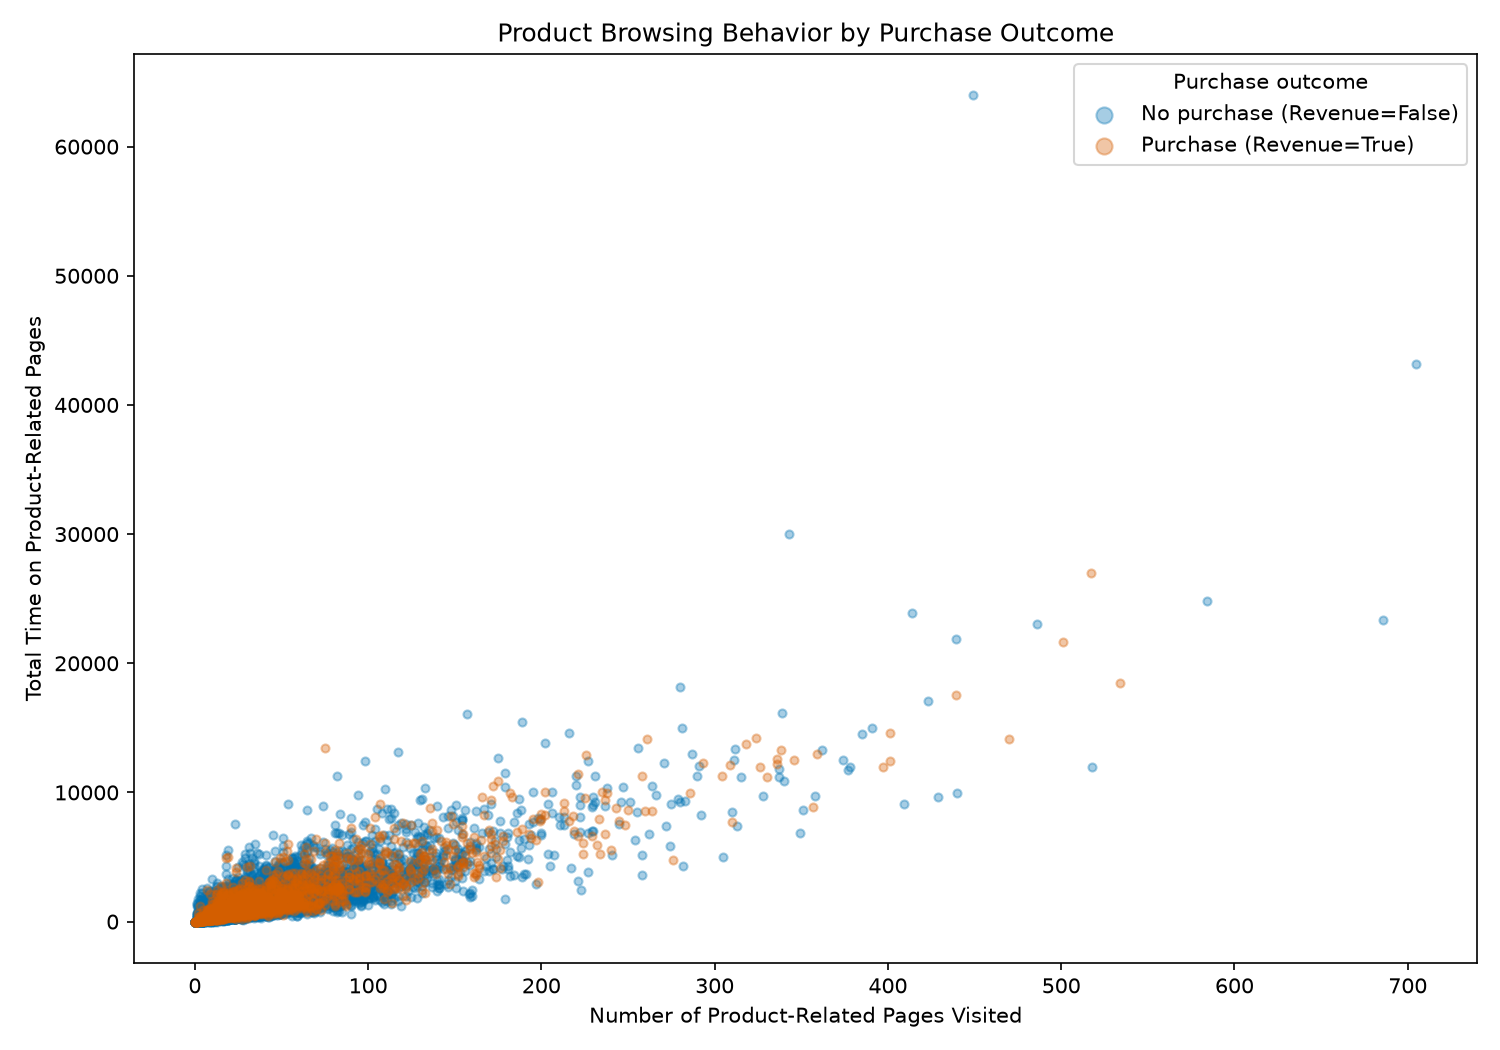
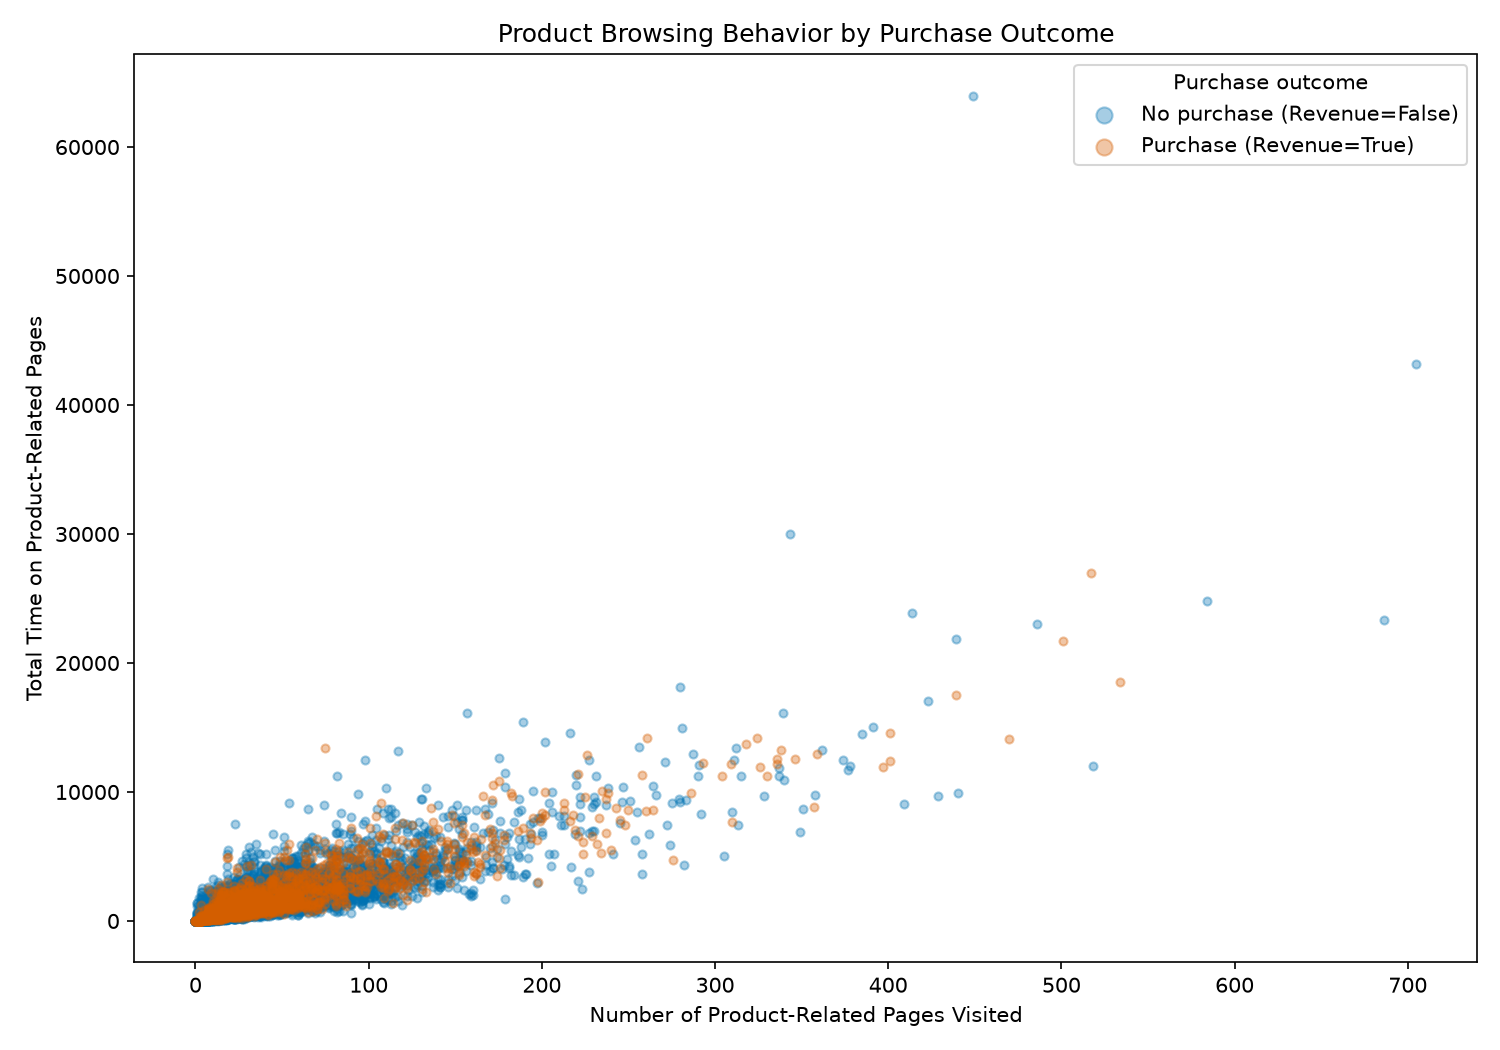
final training and testing

diff --git a/online_shoppers_analysis.py b/online_shoppers_analysis.py
@@ -13,8 +13,12 @@ from pathlib import Path
 from sklearn.base import BaseEstimator, TransformerMixin, clone
 from sklearn.compose import ColumnTransformer
 from sklearn.ensemble import RandomForestClassifier
-from sklearn.metrics import f1_score
-from sklearn.model_selection import train_test_split, StratifiedKFold, cross_val_score
+from sklearn.metrics import (f1_score, precision_score, recall_score, accuracy_score,
+                             classification_report, confusion_matrix,
+                             ConfusionMatrixDisplay)
+from sklearn.model_selection import (train_test_split, StratifiedKFold,
+                                     cross_val_score, cross_validate, RandomizedSearchCV, GridSearchCV,
+                                     FixedThresholdClassifier)
 from sklearn.pipeline import Pipeline
 from sklearn.preprocessing import OneHotEncoder, StandardScaler
 from sklearn.tree import DecisionTreeClassifier
@@ -255,9 +259,18 @@ def prepare_data(data):
 # Side effects: Prints predictions, training F1, fold scores, mean, and deviation
 # Returns: A dictionary containing each model's mean cross-validation F1
 def compare_models(X_train, y_train, preprocessor):
+    forest_clf = RandomForestClassifier(
+        n_estimators=100,
+        max_features="sqrt",
+        max_depth=None,
+        min_samples_split=2,
+        bootstrap=True,
+        oob_score=False,
+        random_state=42
+    )
     models = {
         "Decision Tree": DecisionTreeClassifier(random_state=42),
-        "Random Forest": RandomForestClassifier(n_estimators=100, random_state=42)
+        "Random Forest": forest_clf
     }
     cv = StratifiedKFold(n_splits=5, shuffle=True, random_state=42)
     results = {}
@@ -287,6 +300,239 @@ def compare_models(X_train, y_train, preprocessor):
 
 
 
+# training and testing - round 1
+# Reference: load_data6.py, adapted to classification and RandomizedSearchCV.
+# Test each sampled setting on validation folds; reserve the final test set.
+def tune_random_forest(X_train, y_train, preprocessor):
+    forest_clf = RandomForestClassifier(
+        n_estimators=100,
+        max_features="sqrt",
+        max_depth=None,
+        min_samples_split=2,
+        bootstrap=True,
+        oob_score=False,
+        random_state=42
+    )
+    forest_pipeline = Pipeline([
+        ("preparation", clone(preprocessor)),
+        ("classifier", forest_clf)
+    ])
+    # Search overrides these two starting values; the other settings stay fixed.
+    param_distributions = {
+        "classifier__n_estimators": [100, 200, 300],
+        "classifier__max_features": ["sqrt", "log2", 0.3]
+    }
+    cv = StratifiedKFold(n_splits=5, shuffle=True, random_state=42)
+    random_search = RandomizedSearchCV(
+        forest_pipeline, param_distributions, n_iter=5, cv=cv,
+        scoring="f1", random_state=42, refit=True,
+        return_train_score=True, error_score="raise"
+    )
+
+    print("\nTRAINING AND TESTING - ROUND 1: RANDOMIZED SEARCH")
+    print("5 sampled combinations x 5 folds = 25 CV fits, then refit the best.")
+    print("Score: F1 for purchase (Revenue=1). Higher is better.")
+    random_search.fit(X_train, y_train)
+
+    # Like load_data6.py, print the score for each tested parameter combination.
+    cvres = random_search.cv_results_
+    for mean_score, std_score, params in zip(
+            cvres["mean_test_score"], cvres["std_test_score"], cvres["params"]):
+        print("CV F1:", round(mean_score, 4),
+              "Standard deviation:", round(std_score, 4), params)
+
+    print("Best parameters:", random_search.best_params_)
+    print("Best mean CV F1:", round(random_search.best_score_, 4))
+    print("Final test set remains reserved until tuning is finished.")
+    return random_search
+
+
+# training and testing - round 2
+# Reference: load_data6.py; refine round 1 using GridSearchCV.
+# More features may help splits; larger leaves may reduce overfitting.
+def tune_random_forest_round2(X_train, y_train, preprocessor):
+    forest_clf = RandomForestClassifier(
+        n_estimators=300,
+        max_features=0.3,
+        max_depth=None,
+        min_samples_split=2,
+        min_samples_leaf=1,
+        bootstrap=True,
+        oob_score=False,
+        random_state=42
+    )
+    forest_pipeline = Pipeline([
+        ("preparation", clone(preprocessor)),
+        ("classifier", forest_clf)
+    ])
+    param_grid = {
+        "classifier__n_estimators": [300, 500],
+        "classifier__max_features": [0.3, 0.4, 0.5],
+        "classifier__min_samples_leaf": [1, 2, 4]
+    }
+    cv = StratifiedKFold(n_splits=5, shuffle=True, random_state=42)
+    grid_search = GridSearchCV(
+        forest_pipeline, param_grid, cv=cv,
+        scoring={"f1": "f1", "precision": "precision", "recall": "recall"},
+        refit="f1", n_jobs=2,
+        return_train_score=True, error_score="raise", verbose=1
+    )
+
+    print("\nTRAINING AND TESTING - ROUND 2: GRID SEARCH")
+    print("18 combinations x 5 folds = 90 CV fits, then refit the best.")
+    print("Use the same split, preprocessing and folds as round 1.")
+    grid_search.fit(X_train, y_train)
+
+    cvres = grid_search.cv_results_
+    round1_index = None
+    for index, params in enumerate(cvres["params"]):
+        print("CV F1:", round(cvres["mean_test_f1"][index], 4),
+              "Standard deviation:", round(cvres["std_test_f1"][index], 4),
+              "Precision:", round(cvres["mean_test_precision"][index], 4),
+              "Recall:", round(cvres["mean_test_recall"][index], 4), params)
+        if (params["classifier__n_estimators"] == 300
+                and params["classifier__max_features"] == 0.3
+                and params["classifier__min_samples_leaf"] == 1):
+            round1_index = index
+
+    print("Best parameters:", grid_search.best_params_)
+    print("Best mean CV F1:", round(grid_search.best_score_, 4))
+    best = grid_search.best_index_
+    print("Best model mean training F1:", round(cvres["mean_train_f1"][best], 4))
+    if round1_index is not None:
+        baseline_f1 = cvres["mean_test_f1"][round1_index]
+        print("Round 1 winner rechecked on the same folds:", round(baseline_f1, 4))
+        print("F1 change from round 1:", round(grid_search.best_score_ - baseline_f1, 4))
+    print("Final test set remains reserved; these are cross-validation results.")
+    return grid_search
+
+
+# training and testing - round 3
+# Reference: load_data6.py; use grid search to target missed purchasers.
+# Choose the threshold inside CV along with forest settings, never on the test set.
+def tune_random_forest_round3(X_train, y_train, preprocessor):
+    forest_clf = RandomForestClassifier(
+        n_estimators=500,
+        max_features=0.5,
+        max_depth=None,
+        min_samples_split=2,
+        min_samples_leaf=4,
+        bootstrap=True,
+        oob_score=False,
+        random_state=42
+    )
+    forest_pipeline = Pipeline([
+        ("preparation", clone(preprocessor)),
+        ("classifier", forest_clf)
+    ])
+    threshold_clf = FixedThresholdClassifier(
+        clone(forest_clf), response_method="predict_proba", pos_label=1
+    )
+    param_grid = [
+        # Keep round 2's exact model as a control, using its original predict().
+        {"classifier": [clone(forest_clf)]},
+        {
+            "classifier": [threshold_clf],
+            "classifier__estimator__max_features": [0.5, 0.75],
+            "classifier__estimator__min_samples_leaf": [4, 8],
+            "classifier__estimator__class_weight": [None, "balanced"],
+            "classifier__threshold": [0.25, 0.35, 0.5]
+        }
+    ]
+    cv = StratifiedKFold(n_splits=5, shuffle=True, random_state=42)
+    grid_search = GridSearchCV(
+        forest_pipeline, param_grid, cv=cv,
+        scoring={"f1": "f1", "precision": "precision", "recall": "recall"},
+        refit="f1", n_jobs=4, return_train_score=True,
+        error_score="raise", verbose=2
+    )
+
+    print("\nTRAINING AND TESTING - ROUND 3: GRID SEARCH")
+    print("24 new combinations + round 2 control = 25 candidates, 125 CV fits.")
+    print("Same five folds and preprocessing; choose the highest mean F1.")
+    grid_search.fit(X_train, y_train)
+
+    cvres = grid_search.cv_results_
+    for index, params in enumerate(cvres["params"]):
+        print("CV F1:", round(cvres["mean_test_f1"][index], 4),
+              "Precision:", round(cvres["mean_test_precision"][index], 4),
+              "Recall:", round(cvres["mean_test_recall"][index], 4), params)
+    best = grid_search.best_index_
+    print("Best parameters:", grid_search.best_params_)
+    print("Best mean CV F1:", round(grid_search.best_score_, 4))
+    print("Best mean precision:", round(cvres["mean_test_precision"][best], 4))
+    print("Best mean recall:", round(cvres["mean_test_recall"][best], 4))
+    print("Round 2 control CV F1:", round(cvres["mean_test_f1"][0], 4))
+    print("Final test set remains reserved; these are cross-validation results.")
+    return grid_search
+
+
+# training and testing - cross-validation of the selected model
+# Recheck the fixed winning settings and record all four comparison metrics.
+def cross_validate_selected_model(model, X_train, y_train):
+    cv = StratifiedKFold(n_splits=5, shuffle=True, random_state=42)
+    results = cross_validate(
+        clone(model), X_train, y_train, cv=cv,
+        scoring={"precision": "precision", "recall": "recall",
+                 "accuracy": "accuracy", "f1": "f1"},
+        return_train_score=True, n_jobs=4, error_score="raise"
+    )
+    print("\nFINAL MODEL - FIVE-FOLD CROSS-VALIDATION")
+    for metric in ("precision", "recall", "accuracy", "f1"):
+        scores = results["test_" + metric]
+        print(metric, "fold scores:", scores.round(4))
+        print(metric, "CV mean:", round(scores.mean(), 4),
+              "standard deviation:", round(scores.std(), 4))
+    return results
+
+
+# training and testing - final evaluation
+# Run after model selection is finished. Predict with the fitted pipeline only.
+def evaluate_final_model(model, X_train, y_train, X_test, y_test, cv_results=None):
+    print("\nFINAL EVALUATION - SELECTED ROUND 3 MODEL")
+    scores = {}
+    for name, X, y in [("Training", X_train, y_train), ("Test", X_test, y_test)]:
+        predictions = model.predict(X)
+        scores[name] = {
+            "f1": f1_score(y, predictions),
+            "precision": precision_score(y, predictions),
+            "recall": recall_score(y, predictions),
+            "accuracy": accuracy_score(y, predictions)
+        }
+        print(name, "rows:", len(y))
+        for metric, value in scores[name].items():
+            print(name, metric + ":", round(value, 4))
+        if name == "Test":
+            test_predictions = predictions
+
+    matrix = confusion_matrix(y_test, test_predictions, labels=[0, 1])
+    print("\nTEST CLASSIFICATION REPORT")
+    print(classification_report(y_test, test_predictions,
+                                target_names=["No purchase", "Purchase"], digits=4))
+    print("TEST CONFUSION MATRIX - rows actual, columns predicted; order 0, 1")
+    print(matrix)
+    print("No-purchase baseline test accuracy:", round((y_test == 0).mean(), 4))
+    if cv_results is not None:
+        print("\nCROSS-VALIDATION VERSUS FINAL TEST SET")
+        for metric in ("precision", "recall", "accuracy", "f1"):
+            cv_mean = cv_results["test_" + metric].mean()
+            test_score = scores["Test"][metric]
+            print(metric, "CV:", round(cv_mean, 4), "Test:", round(test_score, 4),
+                  "Change:", round(test_score - cv_mean, 4))
+    figure, axis = plt.subplots(figsize=(6, 5))
+    display = ConfusionMatrixDisplay(matrix, display_labels=["No purchase", "Purchase"])
+    display.plot(ax=axis, cmap="Blues", colorbar=False, values_format="d")
+    axis.grid(False)
+    axis.set_title("Selected Random Forest - Final Test Set")
+    figure.tight_layout()
+    figure.savefig(PROJECT_FOLDER / "online_shoppers_test_confusion_matrix.png", dpi=180)
+    scores["confusion_matrix"] = matrix.tolist()
+    scores["classification_report"] = classification_report(
+        y_test, test_predictions, target_names=["No purchase", "Purchase"], output_dict=True
+    )
+    return scores
+
+
 # Function: main
 # Purpose: Explore the CSV, prepare features, and compare Revenue classifiers.
 # Parameters: None
@@ -304,6 +550,16 @@ def main():
         correlations(data)
         X_train, X_test, y_train, y_test, preprocessor = prepare_data(data)
         compare_models(X_train, y_train, preprocessor)
+        # training and testing - round 1
+        tune_random_forest(X_train, y_train, preprocessor)
+        # training and testing - round 2
+        tune_random_forest_round2(X_train, y_train, preprocessor)
+        # training and testing - round 3
+        round3_search = tune_random_forest_round3(X_train, y_train, preprocessor)
+        # training and testing - final evaluation
+        final_cv = cross_validate_selected_model(round3_search.best_estimator_, X_train, y_train)
+        evaluate_final_model(round3_search.best_estimator_, X_train, y_train, X_test, y_test,
+                             cv_results=final_cv)
         visualize_data(data)
         scatter_plot(data)
         scatter_all_numeric(data)
